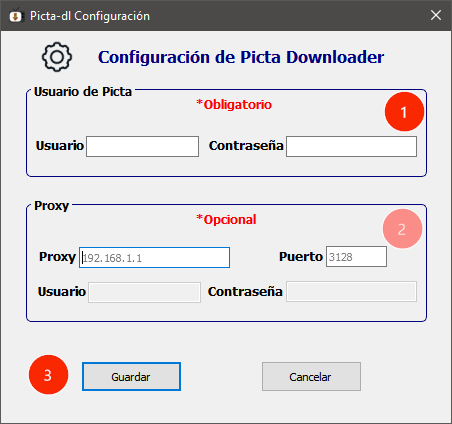
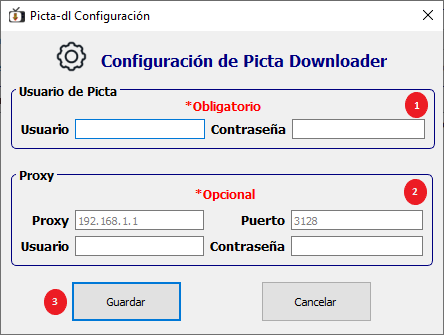
Update README.md and Ayuda

diff --git a/README.md b/README.md
@@ -12,7 +12,7 @@ La configuración actual de __Picta Downloader GUI__ es muy sencilla, consta de 
 
 1. Debe poner su usuario y contraseña de [Picta](https://www.picta.cu) . Es una configuración obligatoria ya que sin esto la aplicación no puede obtener las listas de contenidos o listas de  reproducción (vídeo y audio) que brindan las URL y por tanto tampoco podrá descargar.
 
-2. Si su conexión es a través de un Proxy puede agregar la IP y puerto de este para que pueda conectarse; las autenticaciones que requieran usuario y contraseña del proxy no están implementadas en la aplicación, ya que estas pueden ser de diversos tipos en dependencia de la configuración de su RED. No obstante, tenemos esa opción, pero no activada y quizás a futuro se pueda implementar. 
+2. Si su conexión es a través de un Proxy puede agregar la IP y puerto de este para que pueda conectarse; si requiere autenticación Básica puede agragar usuario y contraseña del proxy.
 
 3. Siempre debe guardar los cambios con el botón Guardar, en caso que no desee guardarlos pues simplemente cancele.
 
